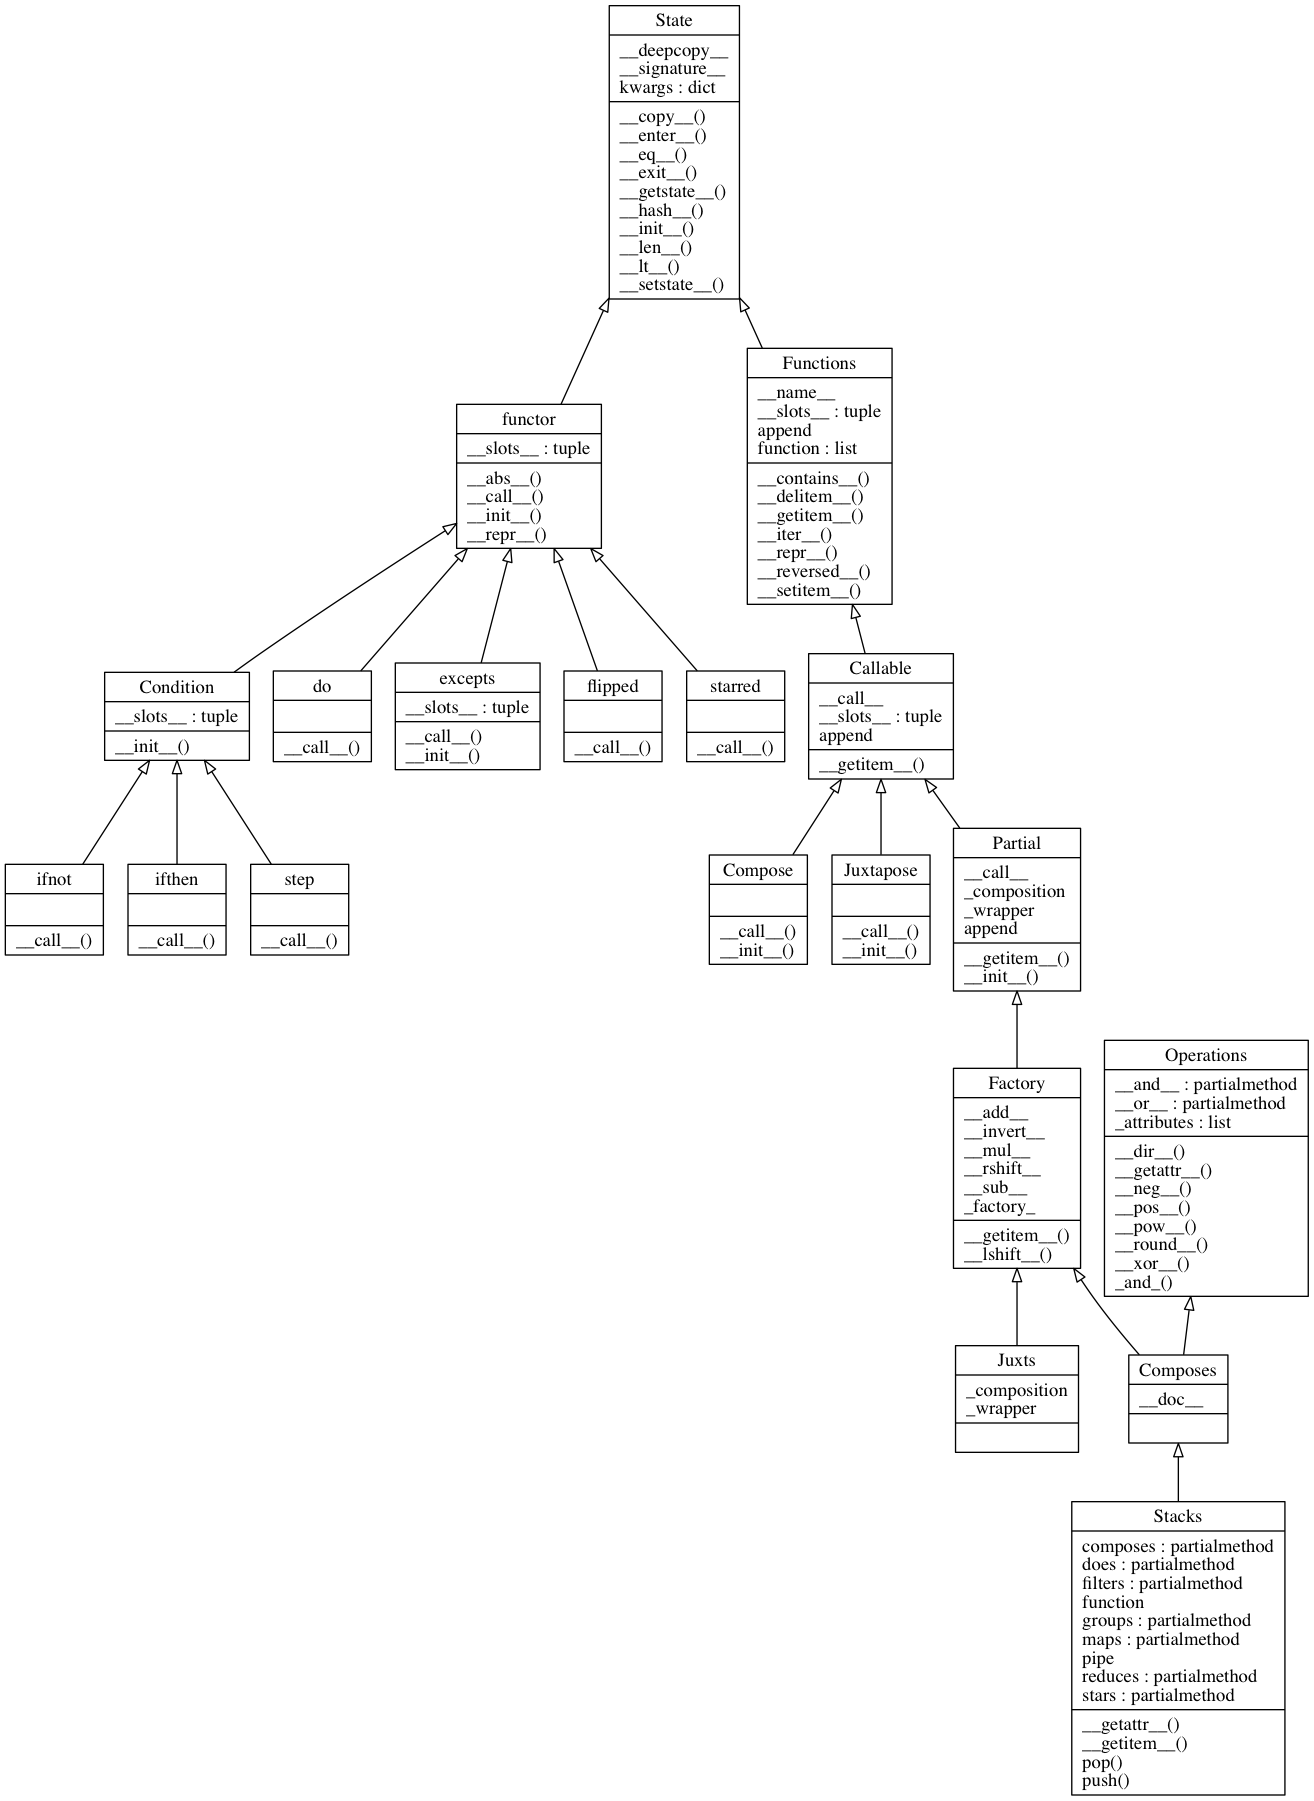
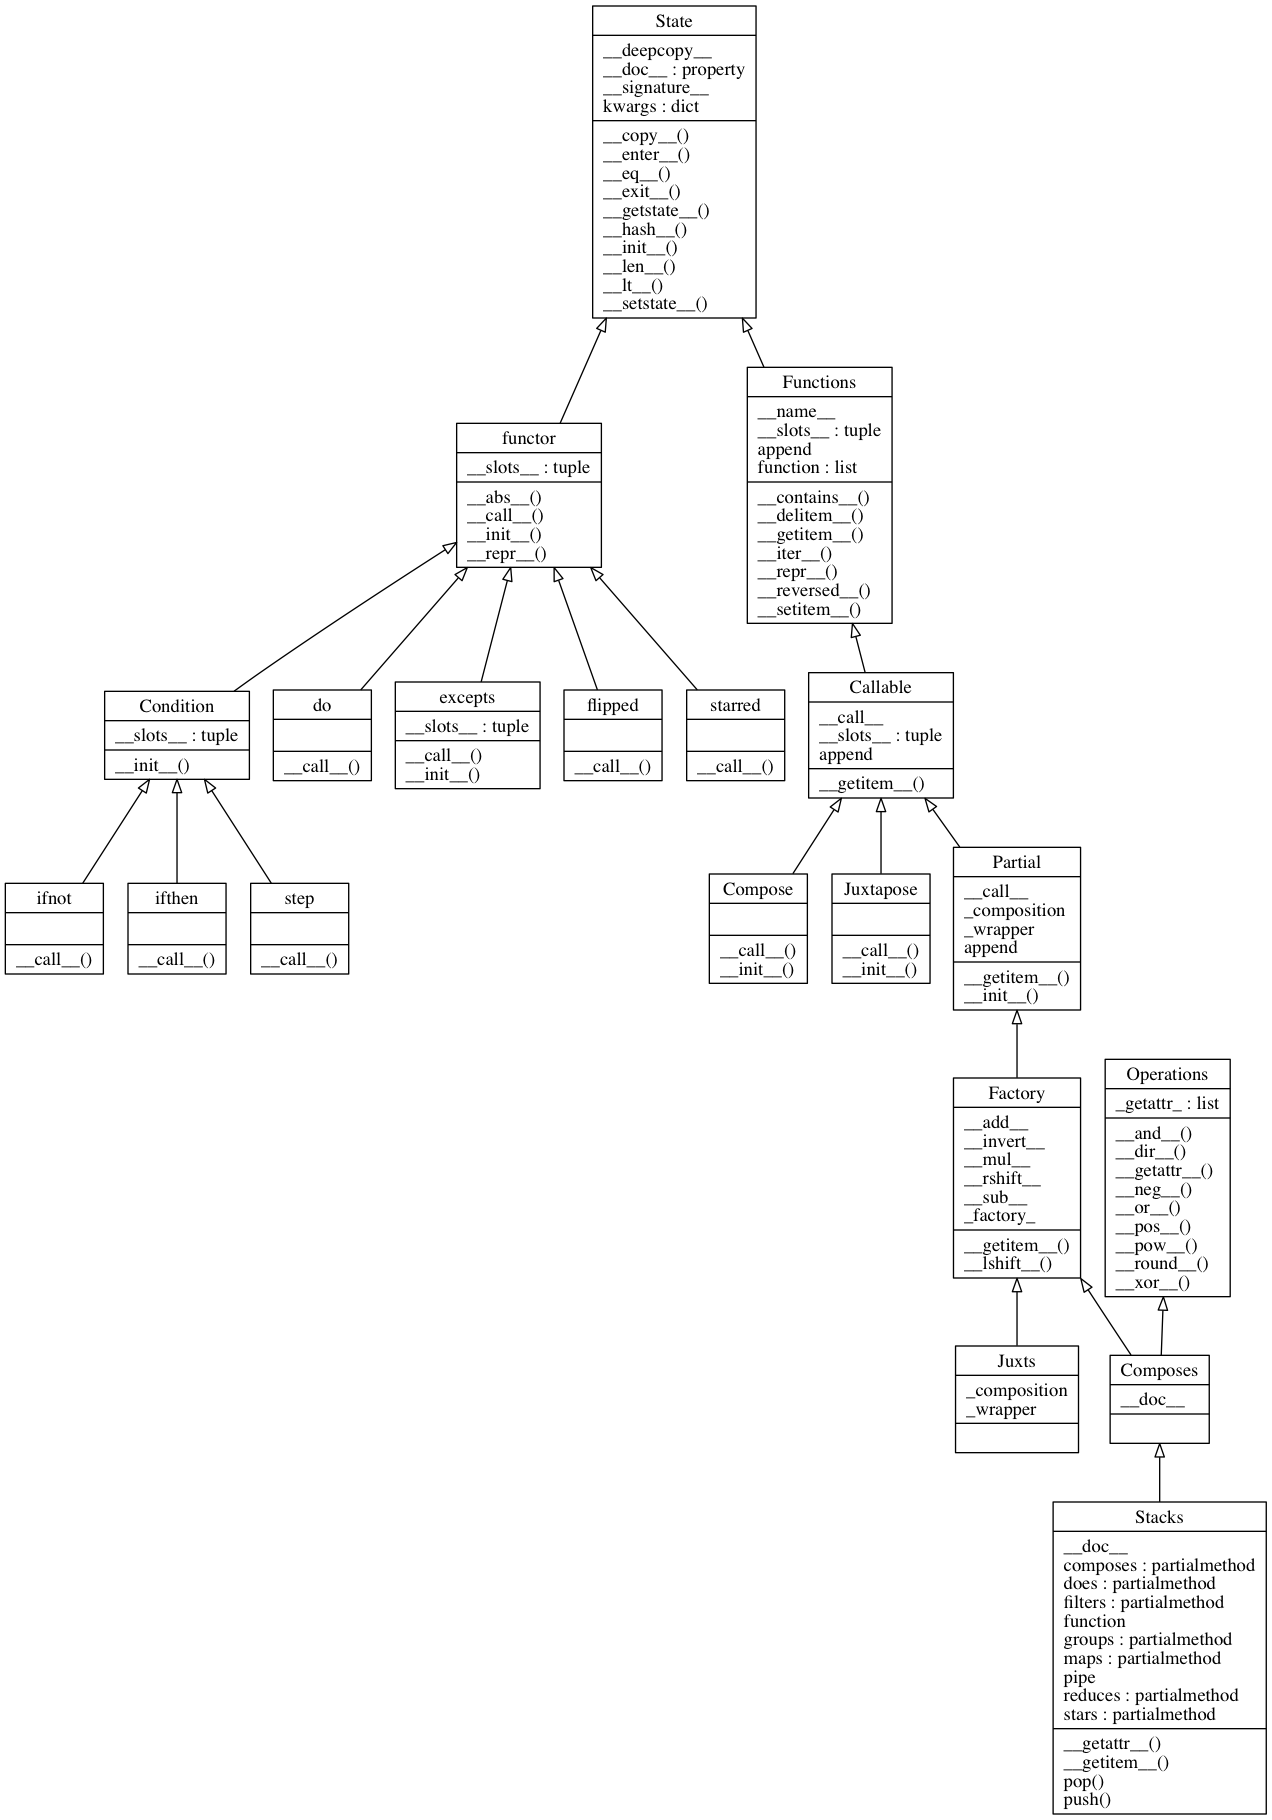
Changes before changing state class

Changed region(s): [[0.0, 0.0, 0.8585, 0.5597], [0.7358, 0.5597, 1.0, 1.0], [0.9811, 0.995, 1.0, 1.0]]

diff --git a/fidget/fidgets.py b/fidget/fidgets.py
@@ -63,15 +63,17 @@ def _classed(callable):
 
 
 class Operations(object):    
-    _attributes = list()
+    _getattr_ = list()
 
-    def _and_(self, callable, object):
+    def __and__(self, callable, object):
         self = self[:]
-        self.function = Composes()[Compose([callable(self.function, Compose([object]))])]
+        self.function = Composes()[Compose([step(self.function, Compose([object]))])]
         return self
-    
-    __or__ = partialmethod(_and_, ifnot)
-    __and__ = partialmethod(_and_, step)
+
+    def __or__(self, callable, object):
+        self = self[:]
+        self.function = Composes()[Compose([ifnot(self.function, Compose([object]))])]
+        return self
     
     def __xor__(self, object):
         object = type(object) is type and (object,) or object
@@ -97,11 +99,9 @@ class Operations(object):
     def __round__(self, n):
         self.function.function = list(interpose(n, self.function.function))
         return self
-    
-    _attributes = list()
 
     def __getattr__(self, attribute):
-        for dict in reversed(self._attributes):
+        for dict in reversed(self._getattr_):
             dict = getattr(dict, '__dict__', dict)
             if attribute in dict:
                 def wrapper(*args, **kwargs):
@@ -110,7 +110,7 @@ class Operations(object):
         raise AttributeError("No attribute {}".format(attribute))
 
     def __dir__(self):
-        return set(concat((dict.keys if isinstance(attr, dict) else dir)(attr) for attr in self._attributes))
+        return set(concat((dict.keys if isinstance(attr, dict) else dir)(attr) for attr in self._getattr_))
 
 
 # In[5]:
@@ -134,7 +134,7 @@ class Factory(Partial):
  
 
 
-# In[24]:
+# In[6]:
 
 
 class Composes(Factory, Operations): 
@@ -146,7 +146,7 @@ class Juxts(Factory):
     _wrapper, _composition = map(staticmethod, (tuple, Juxtapose))
 
 
-# In[25]:
+# In[7]:
 
 
 for op, func in (('matmul', 'groupby'), ('truediv', 'map'), ('floordiv', 'filter'), ('mod', 'reduce')):
@@ -162,28 +162,27 @@ for attr in ['add', 'sub', 'mul', 'matmul','div', 'truediv', 'floordiv', 'mod', 
     setattr(Composes, _attribute_('i', attr), getattr(Composes, _attribute_('', attr)))
     setattr(Composes, _attribute_('r', attr), _right_fallback(_attribute_('', attr)))
 
-Operations._attributes = list()
-Operations._attributes.append(__import__('pathlib'))
+Operations._getattr_ = list()
+Operations._getattr_.append(__import__('pathlib'))
 from pathlib import Path
-Operations._attributes.append({
+Operations._getattr_.append({
      k: flipped(getattr(Path, k)) for k in dir(Path) if k[0]!='_' and callable(getattr(Path, k))
 })
-Operations._attributes.append(globals())
-Operations._attributes.append(__import__('json'))
-Operations._attributes.append(__import__('itertools'))
-Operations._attributes.append(__import__('collections'))
-Operations._attributes.append(__import__('six').moves.builtins)
-Operations._attributes.append({
+Operations._getattr_.append(__import__('json'))
+Operations._getattr_.append(__import__('itertools'))
+Operations._getattr_.append(__import__('collections'))
+Operations._getattr_.append(__import__('six').moves.builtins)
+Operations._getattr_.append({
     key: _classed(value) if key in ['attrgetter', 'methodcaller', 'itemgetter'] else flipped(value)
     for key, value in vars(__import__('operator')).items() if key[0].islower()
 })
-Operations._attributes.append({
+Operations._getattr_.append({
     key: _composed(value) if any(map(key.endswith, ('filter', 'map'))) else value
     for key, value in vars(__import__('toolz')).items() if key[0].islower()
 })
 
 
-# In[26]:
+# In[8]:
 
 
 for name, function in zip(__all__, functions):
@@ -197,17 +196,17 @@ for fidget in __all__:
     locals()[fidget].function = Compose([_callable])
 
 
-# In[27]:
+# In[9]:
 
 
-Composes._attributes.append({
+Composes._getattr_.append({
     f.__name__: _composed(f) for f in (groupby, reduce, filter, map)})
-Composes._attributes.append({
+Composes._getattr_.append({
     key: getattr(Composes, _attribute_('', value)) 
     for key, value in [['call']*2, ['do', 'lshift'], ['pipe',  'getitem'], ['ifthen','xor'], ['step', 'and'], ['ifnot', 'or']]})
 
 
-# In[28]:
+# In[10]:
 
 
 if PY3:    

diff --git a/fidget/stacks.py b/fidget/stacks.py
@@ -19,7 +19,7 @@ except:
 __all__ = 'a', 'an', 'the', 'then', 'stacks'
 
 
-# In[5]:
+# In[2]:
 
 
 class Stacks(Composes): 
@@ -73,30 +73,4 @@ a = an = the = then= stacks
 
 for article in list(__all__) : 
     setattr(Stacks, article, property(identity))
-
-
-# In[4]:
-
-
-s = stacks.range().list()
-s.groups()[lambda x: x/2]
-print(s.__doc__)
-
-
-# In[10]:
-
-
-from toolz.curried import concat
-
-
-# In[ ]:
-
-
-s
-
-
-# In[14]:
-
-
-r = stacks.list()
 
